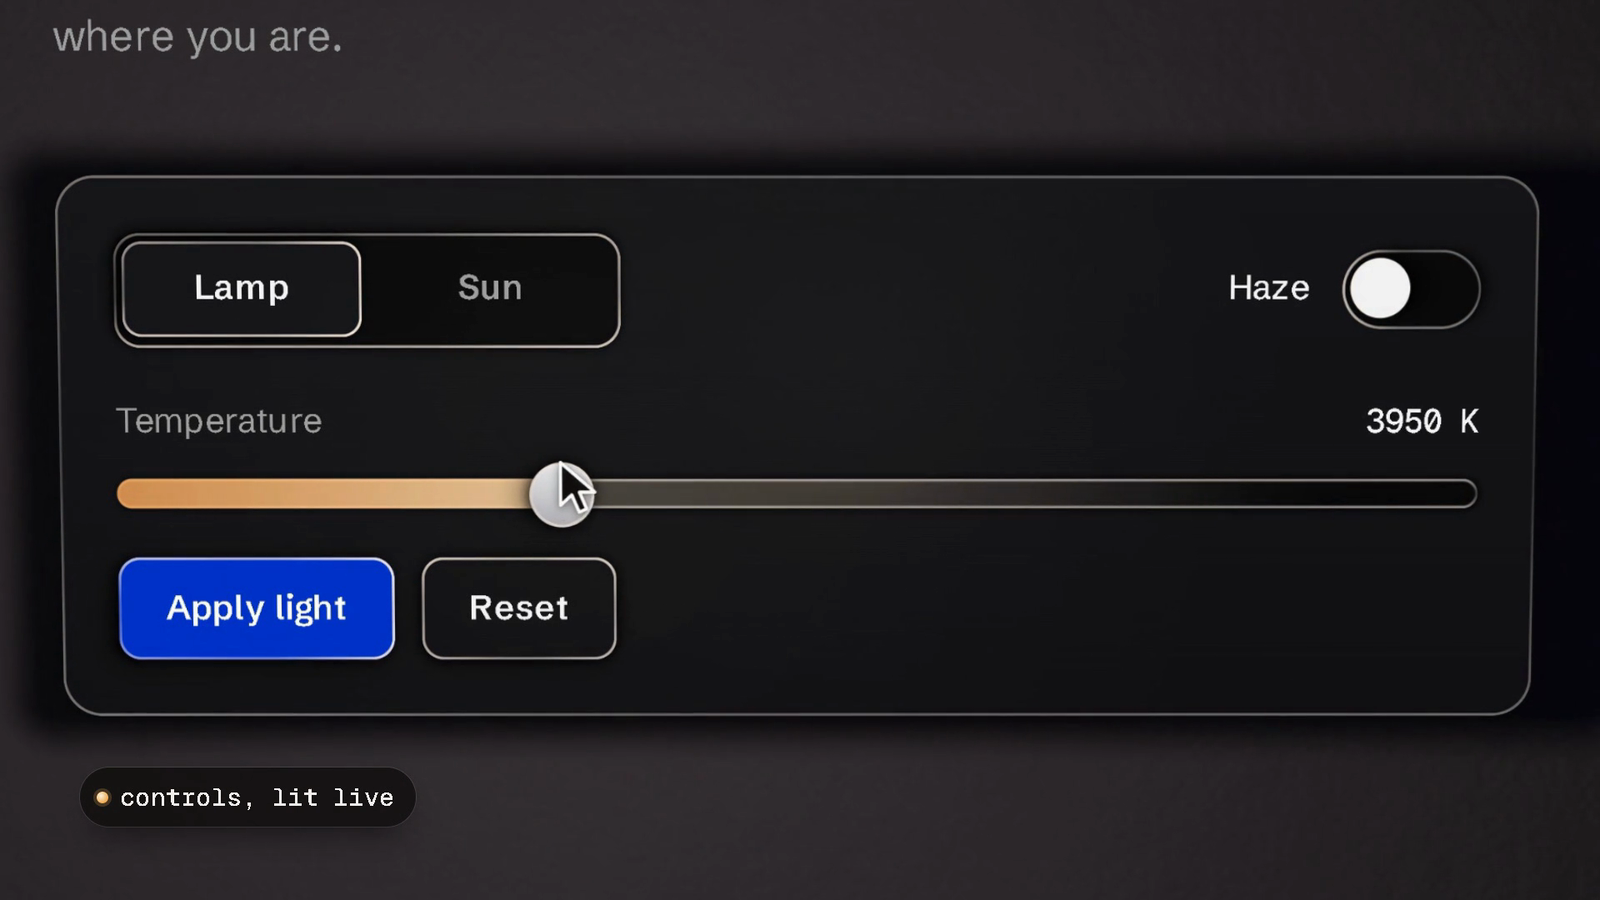
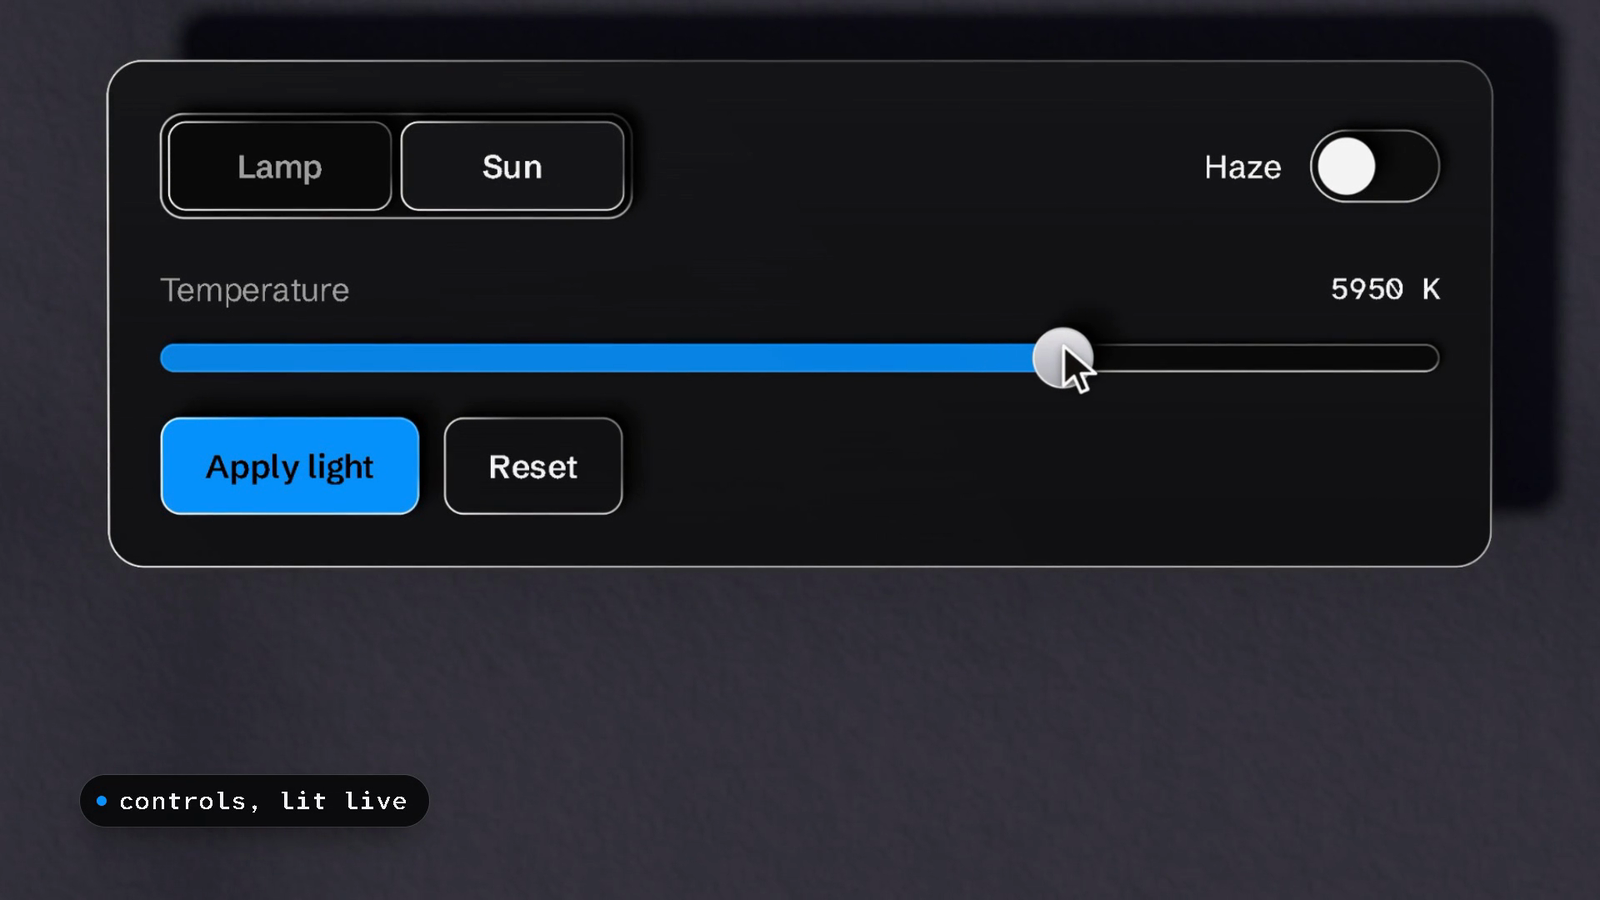
docs(readme): before/after and console in identity v1, quick start at 5600 K
before-after.png is re-shot on the 0.1.2 demos: the same cursor path, composited
at the same frame as the original, with a plain divider and an Azure tag dot
instead of the warm line and amber dot; its alt text drops "warm". console.png is
recut from the neutral film. The quick-start examples use temperature 5600, the
demos' default. The hero loop and poster from #2 are unchanged.

diff --git a/README.md b/README.md
@@ -34,7 +34,7 @@ npm install @designesy/sill
 import '@designesy/sill/sill.css';
 import { Sill } from '@designesy/sill';
 
-new Sill({ params: { mode: 'lamp', temperature: 3200 } });
+new Sill({ params: { mode: 'lamp', temperature: 5600 } });
 ```
 
 Without a build step, straight from a CDN:
@@ -43,7 +43,7 @@ Without a build step, straight from a CDN:
 <link rel="stylesheet" href="https://cdn.jsdelivr.net/npm/@designesy/sill@0.1.2/src/sill.css">
 <script type="module">
   import { Sill } from 'https://cdn.jsdelivr.net/npm/@designesy/sill@0.1.2/src/sill.js';
-  new Sill({ params: { mode: 'lamp', temperature: 3200 } });
+  new Sill({ params: { mode: 'lamp', temperature: 5600 } });
 </script>
 ```
 
@@ -68,7 +68,7 @@ Without a build step, straight from a CDN:
 ## Before and after
 
 <p align="center">
-  <img src="https://raw.githubusercontent.com/LE-VAI/sill/main/docs/media/before-after.png" width="800" alt="Split view of the same page. Left of a warm divider line, Sill: a pool of lamp light and shadows. Right, static shadows on a flat dark background.">
+  <img src="https://raw.githubusercontent.com/LE-VAI/sill/main/docs/media/before-after.png" width="800" alt="Split view of the same page. Left of a thin divider line, Sill: a pool of lamp light and cast shadows. Right, static shadows on a flat dark background.">
 </p>
 
 ## Accessibility
